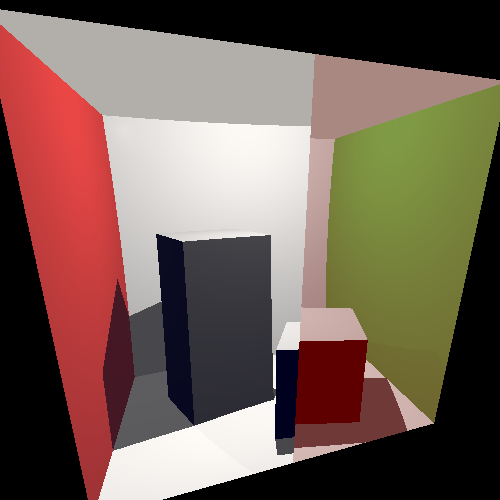
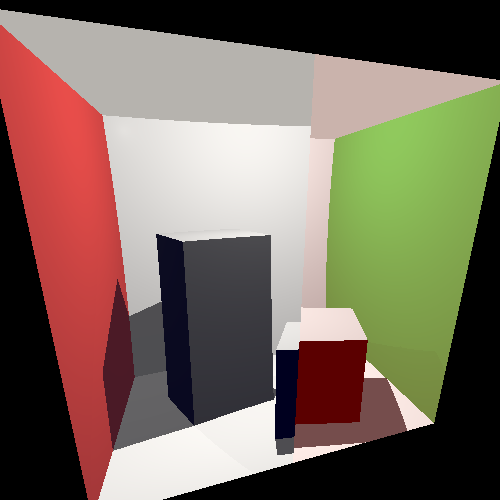
Fixed refraction albedo bug

Changed region(s): [[0.6, 0.09, 1.0, 0.87], [0.57, 0.87, 0.72, 0.93]]

diff --git a/src/raytracer.c b/src/raytracer.c
@@ -138,7 +138,7 @@ static vec3d refract_illum(const scene_obj *obj, const scene *s,
                            vec3d point, vec3d normal, vec3d view_point,
                            int cur_depth, render_options ropts)
 {
-    if (dbl_is_zero(obj->mat->al.z) || obj->mat->ni < EPSILON)
+    if (obj->mat->ni < EPSILON)
         return vec3d_zero();
 
     vec3d ve = vec3d_normalized(vec3d_sub(view_point, point));
@@ -149,13 +149,20 @@ static vec3d refract_illum(const scene_obj *obj, const scene *s,
 
     int we_are_outside_obj = view_cos >= EPSILON;
 
-    double sin_coeff, tr;
+    double sin_coeff, al2, tr;
     if (we_are_outside_obj) {
         tr = obj->mat->tr;
+        al2 = obj->mat->al.z;
+
+        // @HACK so as not to make unnecessary calculations
+        if (dbl_is_zero(tr) || dbl_is_zero(al2))
+            return vec3d_zero();
+
         // @SPEED: we could bake 1/ni in material
         sin_coeff = 1.0 / obj->mat->ni;
     } else {
         tr = 1.;
+        al2 = 1.;
         sin_coeff = obj->mat->ni;
     }
 
@@ -190,11 +197,10 @@ static vec3d refract_illum(const scene_obj *obj, const scene *s,
             vec3d_scale(tangent, refr_sin_coord)
             );
 
-
     // multipliers: albedo_2 and transparency
     return vec3d_scale(
             trace_ray(refr_r, s, cur_depth+1, ropts), 
-            tr * obj->mat->al.z
+            tr * al2
             );
 }
 
@@ -209,7 +215,6 @@ static vec3d shade(vec3d point, vec3d normal, vec3d view_point,
 
     /* diffuse and specular over all lights */
     if (!dbl_is_zero(obj->mat->al.x)) {
-        // @TODO: if kd == 0, dont calc diffuse, if ks == 0, no spec
         for (i = 0; i < s->lights_cnt; i++) {
             light_src *l = s->lights + i;
             if (light_is_seen(point, l, s)) {

diff --git a/test.c b/test.c
@@ -103,6 +103,7 @@ int test_deer()
 int main()
 {
     /*
+    */
     printf("Shading parts: %s\n",
             test_shading_parts() == 0 ? "passed" : "failed");
     printf("Triangle: %s\n",
@@ -115,14 +116,13 @@ int main()
 
     printf("Distorted box: %s\n",
             test_distorted_box() == 0 ? "passed" : "failed");
-            */
     
     printf("Box: %s\n", test_box() == 0 ? "passed" : "failed");
 
-    /*
     printf("Mirrors: %s\n", test_mirrors() == 0 ? "passed" : "failed");
 
     printf("Deer: %s\n",
             test_deer() == 0 ? "passed" : "failed");
-            */
+    /*
+    */
 }
